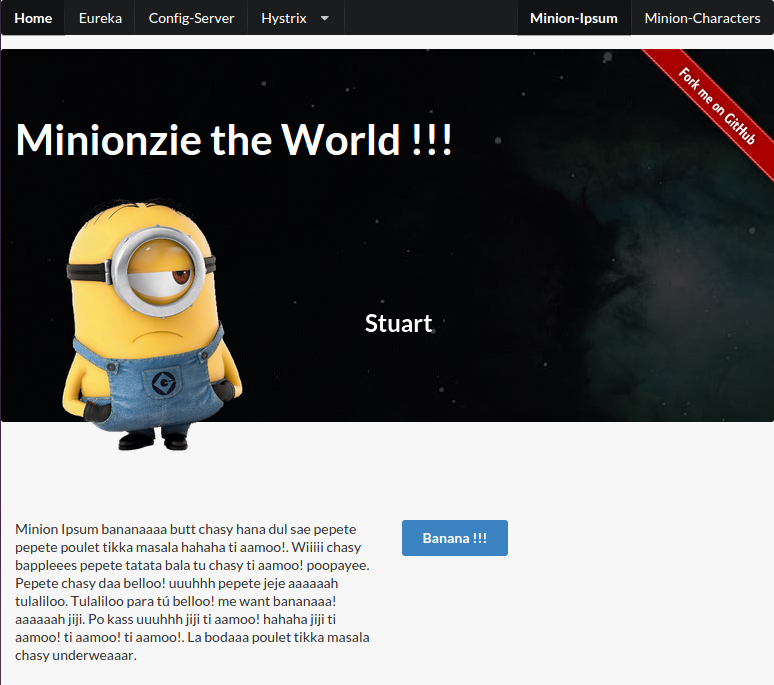
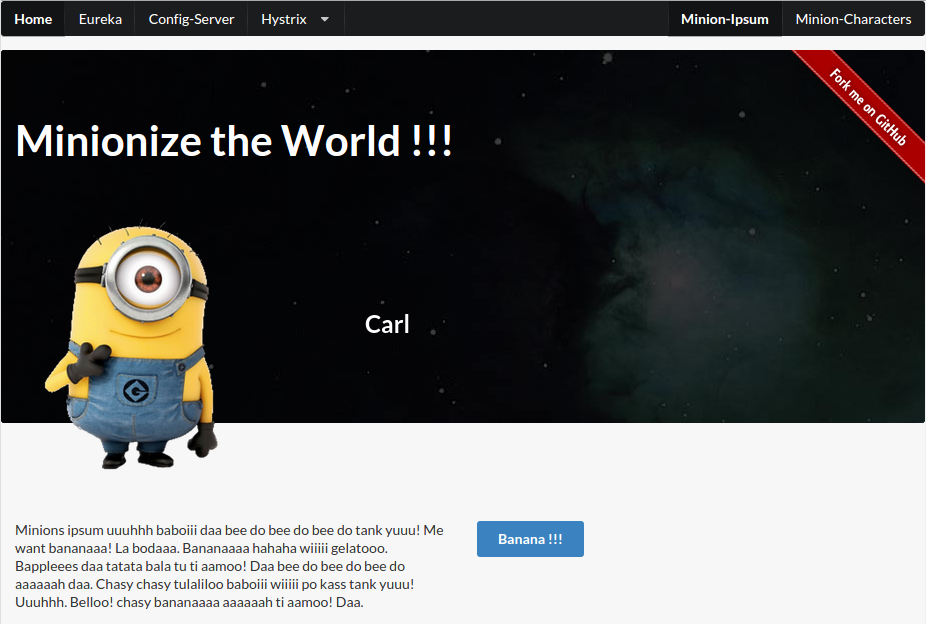
Misspelled word

Changed region(s): [[0.0, 0.0, 1.0, 0.9744], [0.4651, 0.4567, 0.5581, 0.4872], [0.4031, 0.4872, 0.4341, 0.5481]]

diff --git a/minion-front/src/main/resources/templates/minion.html b/minion-front/src/main/resources/templates/minion.html
@@ -59,7 +59,7 @@
     
     <div class="ui page grid">
       <div class="column">
-        <h1 class="ui inverted header">Minionzie the World !!!</h1>
+        <h1 class="ui inverted header">Minionize the World !!!</h1>
         <img id="minion-image" src="../static/img/minion-carl.png" alt="Carl" th:src="${minionImage}" th:alt="${minionName}"  class="ui medium image" />
         
         
